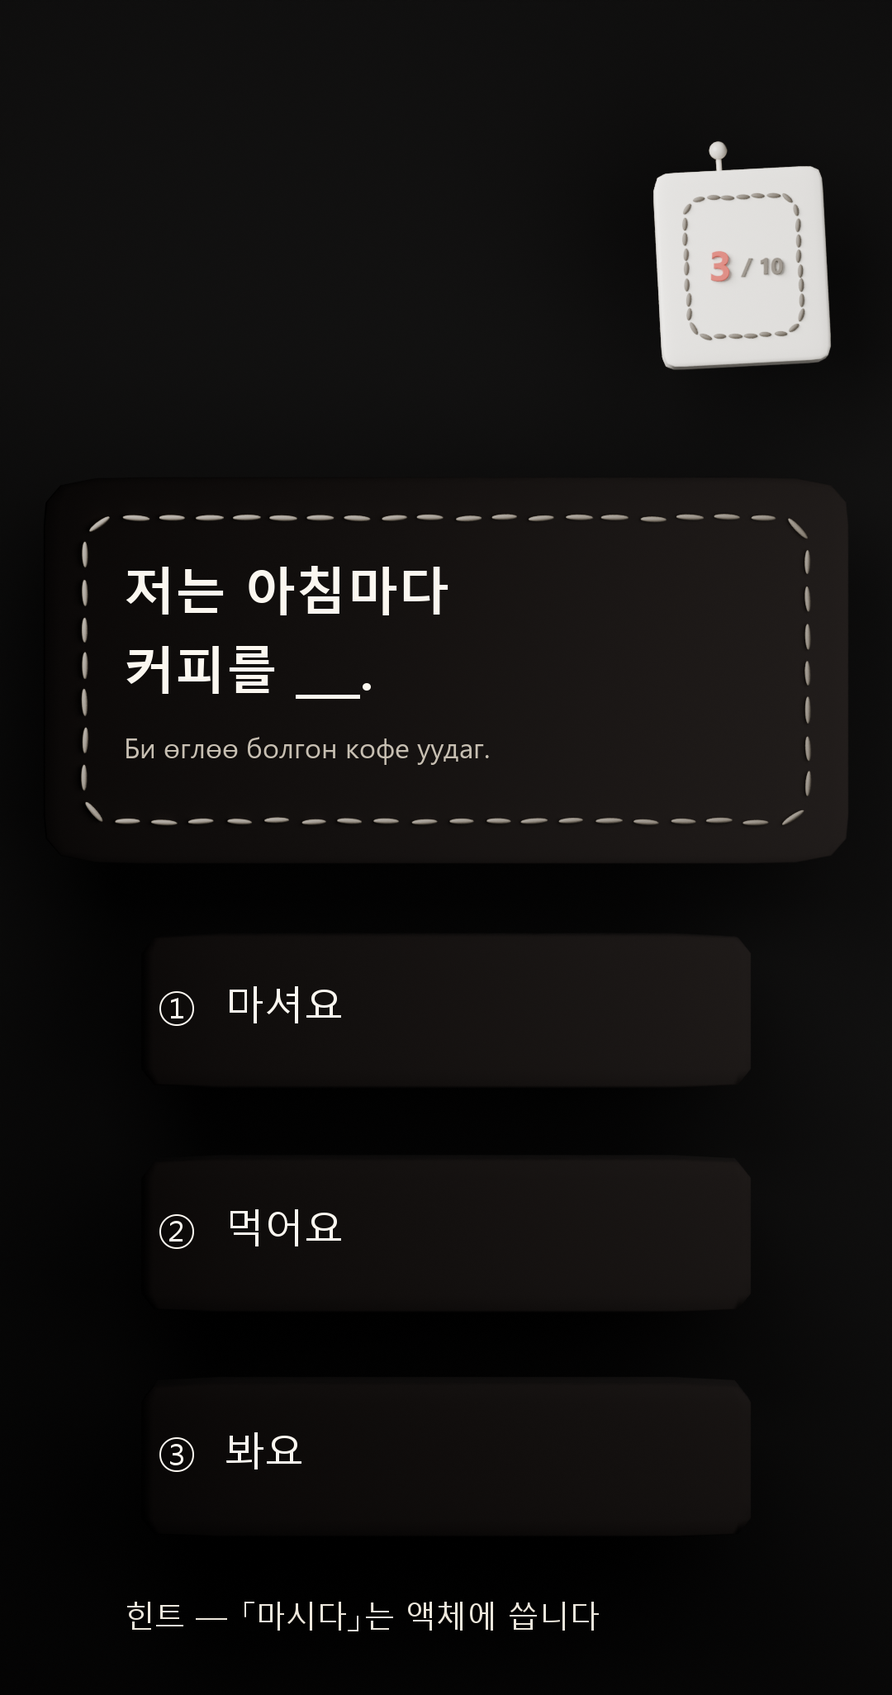
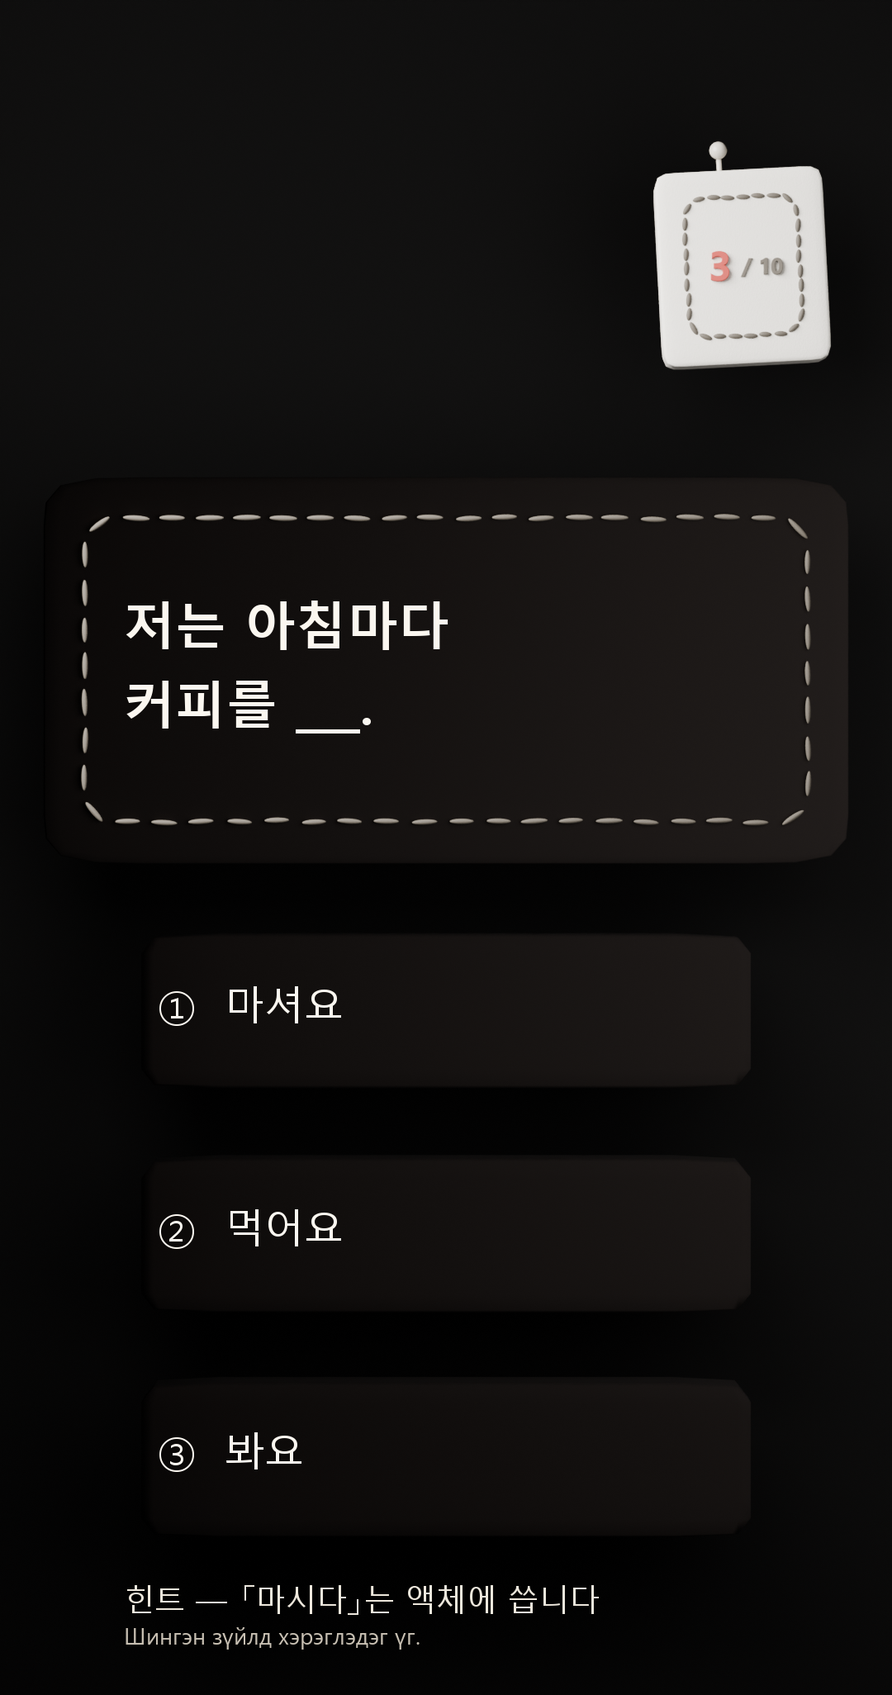
fix: 퀴즈 화면 보조줄이 «정답을 알려주고» 있었다 + 판 갈래 잰 뒤 미채택 확정 (유호 08-22 「권고대로」)
유호님 판정 대기 둘을 재료로 만들어 드리고 「권고대로」를 받았다. 둘 다 집행한다.

■ 퀴즈 보조줄 — 확정이 아니라 «수리»가 급했다

조합판_v1 의 키릴 줄은 「Би өглөө болгон кофе уудаг.」였다. уудаг = 마시다 —
문제가 「커피를 ___.」이고 보기가 ①마셔요 ②먹어요 ③봐요 인데 보조줄이 그 빈칸을 채워 줬다.
몽골 학생은 한국어를 한 글자도 모른 채 ①을 고른다. 이 문항은 아무것도 재지 못했다.

게다가 정확히 거꾸로였다 — 번역하면 안 되는 것(문제)은 번역했고, 못 읽으면 통째로
무용지물인 것(힌트)은 한국어만이었다.

이 수리는 ㉠없음·㉡층별·㉢전면 어느 규칙에서도 옳다. 그래서 규칙 확정을 앞지르지 않는다.

층별 규칙의 셋째 줄을 이 화면 집행에서 둘로 벼렸다:
  · 학습 대상의 «맥락»(문제 문장)   = 급수 연동(1~2급만) — 초급엔 맥락 없이 손도 못 댄다
  · 학습 대상 «자체»(보기·정답 후보) = 어느 급수에서도 안 함 — 번역하면 몽골어끼리 짝지어 고른다
  · 읽어야 «행동이 바뀌는» 문장(힌트) = 항상

문제의 키릴 거울은 빈칸을 빈칸으로 둔다(「…кофе ___.」). 몽골어도 동사가 끝에 오므로(SOV)
빈칸이 한국어와 같은 자리에 떨어진다 — 어순이 같아서 생기는 이득이고 다른 문형에도 쓴다.

규칙 «자체»는 확정하지 않았다(유호: 기본값으로만 박고 확정은 실학생 첫 달).
「UI 라벨은 반복으로 익는다」가 아직 가설이기 때문이다. 그래도 지금 박는 까닭은 타이밍이다 —
화면 2벌인 지금 되돌리는 값이 개원 때(15~20벌)의 1/7~1/10 이다.
본문 층 스위치 = 조합덧씌움3.py <바탕> [없음|층별|전면] [급수] · 기본 층별 3급.
다섯 판 비교 = 보조줄_다섯판.png. 네 갈래 전부 대비 AAA.

■ 판 갈래(㉮) — 잰 뒤 미채택 «확정»

08-21 인계의 「판 갈래엔 명품화 보정을 안 넣었다」는 과장이었다. 단추 수리(구멍 돌기·
X보정 0.004·단추등 38)는 전부 단추() 공통 함수 안이라 판 갈래도 자동으로 받는다.
안 한 것은 보정이 아니라 실측이었다. 정본으로 굽고 같은 본문을 부어 쟀다:

  여정 폭 673px(62%) vs 880px(81%) · 세로 217px vs 106px(판이 2.05배)
  밝은 화소 31,607 vs 23,928(판 +32%) · 코랄 403 vs 371(판 +8.6%)
  신호비 1.275% vs 1.551%(천 +22%) · 대비는 둘 다 전 블록 AAA

곧 판 갈래는 세로를 2배 쓰면서 여정을 23% 짧게 그리고, 소음을 32% 늘리면서 신호는
8.6%만 늘린다. 게이지의 존재 이유는 코랄 점 하나인데 판을 깔면 그 둘레가 함께 밝아져
점이 덜 튄다 — 명품 4계 ②가 정확히 이걸 막는 규칙이다.

지우지 않는다. 장점 둘(다른 화면 재사용·밝은 테마 내성)은 실재하되 지금 안 쓰일 뿐이고
「게이지=판」 한 마디로 언제든 다시 구워진다. 나란히 본 판 = 갈래_나란히.png.
[…]

diff --git a/docs/캐릭터/조합공방_0821/조합덧씌움3.py b/docs/캐릭터/조합공방_0821/조합덧씌움3.py
@@ -2,7 +2,16 @@
 """조합판에 산 글자를 붓는다 — 3차판. 2차(조합덧씌움2.py)와 다른 점은 **좌표의 출처** 하나다.
 2차는 본문 자리를 손좌표(150/596/692…)로 박아, 카드를 줄이면 글이 카드 위쪽에 쏠리거나 넘쳤다.
 3차는 굽기가 함께 낸 `<출력>.png.칸.json`(카드의 화면 픽셀 상자)을 읽어 **카드 안에 앉힌다** —
-판마다 다시 재지 않는다. 대비 실측은 2차 그대로(후광 고리 최악값)."""
+판마다 다시 재지 않는다. 대비 실측은 2차 그대로(후광 고리 최악값).
+
+08-22 보조줄 수리: 키릴 줄이 **정답을 누설**하고 있었다(「…кофе уудаг.」의 уудаг = 마시다).
+문제는 «커피를 ___» 인데 보조줄이 그 빈칸을 채워 줬으니 이 문항은 아무것도 재지 못했다.
+게다가 **정확히 거꾸로**였다 — 번역하면 안 되는 것(문제)은 번역하고, 못 읽으면 통째로 무용지물인
+것(힌트)은 한국어만이었다. 층별 규칙(성장공방_0821/인계.md §4)대로 다시 부었다.
+
+  쓰는 법:  python 조합덧씌움3.py <바탕이름> [없음|층별|전면] [급수]
+            기본 = 층별 · 3급 (성장판 목업과 같은 학생)
+"""
 import io, json, os, sys
 
 import PIL.ImageChops as C
@@ -11,28 +20,52 @@ from PIL import Image, ImageDraw, ImageFilter, ImageFont
 여기 = os.path.dirname(os.path.abspath(__file__))
 굵 = r"C:\Windows\Fonts\malgunbd.ttf"
 보통 = r"C:\Windows\Fonts\malgun.ttf"
-키릴 = r"C:\Windows\Fonts\segoeui.ttf"   # 맑은고딕엔 몽골 키릴 ө·ү 글리프가 없다(두부 실측)
+키릴서체 = r"C:\Windows\Fonts\segoeui.ttf"   # 맑은고딕엔 몽골 키릴 ө·ү 글리프가 없다(두부 실측)
 잉크 = (0xFB, 0xF7, 0xF0)      # Paper
 보조 = (0xED, 0xE7, 0xDC)      # Oat
 보조2 = (0xC7, 0xBF, 0xB2)     # Stone
 
 이름 = sys.argv[1]
+갈래 = sys.argv[2] if len(sys.argv) > 2 else "층별"     # 없음 | 층별 | 전면
+                                                      # ⚠이름을 「보조」로 두면 색 상수를 덮는다
+급수 = int(sys.argv[3]) if len(sys.argv) > 3 else 3
+
+# ── 층별 규칙(성장공방_0821/인계.md §4)의 이 화면 집행 ──────────────────────────────
+#   ㉠ 문제 문장 = 학습 대상의 «맥락» → 급수 연동(1~2급만 병기 · 3급부터 걷힌다 = 승급의 실물 보상)
+#   ㉡ 보기 ①②③ = 학습 대상 «자체» → 어느 급수에서도 병기하지 않는다.
+#      번역하면 학생이 몽골어끼리 짝지어 고르므로 문항이 «한국어를» 재지 못한다.
+#   ㉢ 힌트 = 읽어야 «행동이 바뀌는» 문장 → 항상 병기(못 읽으면 힌트가 통째로 무용지물).
+#   ⚠㉠의 키릴 거울은 **빈칸을 빈칸으로 둔다.** 몽골어도 동사가 끝에 오므로 자리가 그대로 맞는다.
+문제키릴 = (갈래 == "전면") or (갈래 == "층별" and 급수 <= 2)
+보기키릴 = (갈래 == "전면")
+힌트키릴 = 갈래 in ("층별", "전면")
+
+# ⚠몽골어 문안은 **검수 전 표본**이다 — 이 판으로 정하는 것은 「어디에 넣나」뿐.
+몽 = {
+    "문제": "Би өглөө болгон кофе ___.",          # 빈칸 보존 — уудаг 을 넣으면 정답 누설
+    "힌트": "Шингэн зүйлд хэрэглэдэг үг.",        # ⚠키릴 서체엔 한글이 없다 — 「마시다」를 넣으면 두부(□)
+    "보기": ("уудаг", "иддэг", "үздэг"),
+}
+
 바탕길 = os.path.join(여기, "렌더", 이름 + ".png")
 칸길 = 바탕길 + ".칸.json"
+꼬리 = "_%s%d급" % (갈래, 급수)
 
 im = Image.open(바탕길).convert("RGB")
 W, H = im.size
 d = ImageDraw.Draw(im)
 
 # ── 본문 자리 — 카드 칸에서 뽑는다 ──────────────────────────────────────────────
-#   왼 들여쓰기 98 · 줄새 96 · 키릴 내림 210 · 블록 높이 256 은 2차 채택판의 «비례»를 그대로 옮긴 값이다
+#   왼 들여쓰기 98 · 줄새 96 · 키릴 내림 210 은 2차 채택판의 «비례»를 그대로 옮긴 값이다
 #   (2차 실측: 카드 좌 52 → 글 150 · 카드 위 479 → 글 596 · 블록 596~852).
 #   ⚠광학 보정 −12: PIL 의 text top 은 폰트 상자 위끝이라 글자는 그보다 아래에서 시작한다.
 #     기하 중앙에 그대로 앉히면 «아래로 처져» 보인다.
+#   ⚠블록 높이는 «줄 수»를 따른다 — 키릴 줄이 빠졌는데 3줄 높이로 앉히면 글이 위로 뜬다.
 칸들 = json.load(io.open(칸길, encoding="utf-8"))
 칸 = 칸들["카드"]
 좌 = int(round(칸["좌"] + 98))
-줄1 = int(round((칸["위"] + 칸["아래"]) / 2 - 128 - 12))
+블록 = 256 if 문제키릴 else 172
+줄1 = int(round((칸["위"] + 칸["아래"]) / 2 - 블록 / 2 - 12))
 줄2, 몽골 = 줄1 + 96, 줄1 + 210
 
 
@@ -43,23 +76,44 @@ def 글(x, y, 본문, 크기, 색, bold=True, 서체=None):
 
 
 기록 = []
+색표 = {}
+
+
+def 적는다(표이름, 색, x, y, 본문, 크기, bold=True, 서체=None):
+    """글을 붓고 «대비 실측이 다시 찾을 수 있게» 이름·색과 함께 장부에 적는다."""
+    기록.append((표이름, 글(x, y, 본문, 크기, 색, bold, 서체)))
+    색표[표이름] = 색
+
+
 # ── 카드 위: 문제 (keep-all 은 짧은 줄로 손수 보장 · 위계는 밀도) ──
-기록.append(("문제줄1", 글(좌, 줄1, "저는 아침마다", 62, 잉크, True)))
-기록.append(("문제줄2", 글(좌, 줄2, "커피를 ___.", 62, 잉크, True)))
-기록.append(("몽골줄", 글(좌, 몽골, "Би өглөө болгон кофе уудаг.", 34, 보조2, False, 서체=키릴)))
+적는다("문제줄1", 잉크, 좌, 줄1, "저는 아침마다", 62, True)
+적는다("문제줄2", 잉크, 좌, 줄2, "커피를 ___.", 62, True)
+if 문제키릴:
+    적는다("문제몽", 보조2, 좌, 몽골, 몽["문제"], 34, False, 키릴서체)
 
 # ── 알약 위: 보기 — 알약도 자기 칸을 말한다(3차). 2차 손좌표(1244/1496/1748)는 알약을 옮기자
 #    글이 알약 아래로 흘러내렸다. 알약 세로 중앙 − 30(48px 글의 반) − 12(광학 보정)에 앉힌다.
 for 번, 본문 in enumerate(("①  마셔요", "②  먹어요", "③  봐요")):
     알 = 칸들["알약%d" % (번 + 1)]
-    py = int(round((알["위"] + 알["아래"]) / 2 - 30 - 12))
-    기록.append((본문[:1], 글(190, py, 본문, 48, 잉크, False)))
-기록.append(("힌트", 글(150, 1930, "힌트 — 「마시다」는 액체에 씁니다", 37, 보조, False)))
+    중 = (알["위"] + 알["아래"]) / 2
+    if 보기키릴:
+        py = int(round(중 - 42 - 12))
+        적는다(본문[:1], 잉크, 190, py, 본문, 48, False)
+        적는다(본문[:1] + "몽", 보조2, 190 + 62, py + 60, 몽["보기"][번], 26, False, 키릴서체)
+    else:
+        적는다(본문[:1], 잉크, 190, int(round(중 - 30 - 12)), 본문, 48, False)
 
-낸것 = os.path.join(여기, "렌더", 이름 + "_본문.png")
+# ── 화면 바닥: 힌트 — 두 줄이면 한 줄이던 자리의 «세로 중심»을 지킨다 ──
+힌트y = 1910 if 힌트키릴 else 1930
+적는다("힌트", 보조, 150, 힌트y, "힌트 — 「마시다」는 액체에 씁니다", 37, False)
+if 힌트키릴:
+    적는다("힌트몽", 보조2, 150, 힌트y + 50, 몽["힌트"], 28, False, 키릴서체)
+
+낸것 = os.path.join(여기, "렌더", 이름 + "_본문" + 꼬리 + ".png")
 im.save(낸것)
-print("구움:", os.path.basename(낸것), "· 카드칸 좌%d 위%d 아래%d · 글 좌%d 줄1 %d"
-      % (칸["좌"], 칸["위"], 칸["아래"], 좌, 줄1))
+print("구움:", os.path.basename(낸것),
+      "· 갈래 %s · %d급 · 문제키릴 %s · 보기키릴 %s · 힌트키릴 %s"
+      % (갈래, 급수, 문제키릴, 보기키릴, 힌트키릴))
 
 
 # ── 대비 실측 — 블록마다 후광 고리 최악값 ──
@@ -88,8 +142,7 @@ for 표이름, (x, y, 본문, 크기, bold, 서체) in 기록:
     dm.text((x, y), 본문, font=f, fill=255)
     고리 = C.subtract(m.filter(ImageFilter.MaxFilter(5)), m)
     gl = 고리.load()
-    글색 = {"문제줄1": 잉크, "문제줄2": 잉크, "몽골줄": 보조2, "힌트": 보조}.get(표이름, 잉크)
-    L글 = 상대휘도(*글색)
+    L글 = 상대휘도(*색표[표이름])
     ls = []
     x0, y0 = max(0, x - 20), max(0, y - 20)
     x1, y1 = min(W, x + 1000), min(H, y + 크기 * 2 + 40)

diff --git a/docs/캐릭터/성장공방_0821/인계.md b/docs/캐릭터/성장공방_0821/인계.md
@@ -25,7 +25,7 @@
 
 | 자리 | 값 |
 |---|---|
-| 게이지 갈래 | **천**(배경천에 직접 수놓음) — 판 갈래(카드 안)는 미채택 |
+| 게이지 갈래 | **천**(배경천에 직접 수놓음) — 판 갈래는 §2-B 실측으로 미채택 확정(08-22) |
 | 여정 | 반폭 `1.178` · 6칸 · 도달 3 · z `1.845` |
 | 단추 | r `0.085` · depth 0.038 · 몸 Stone 거칠기 0.55 · 깊이 `0.975` |
 | 단추 구멍 | r×0.10 · depth `0.005` · 깊이 `−0.0205`(앞면에 «붙인» 자국) |
@@ -41,6 +41,31 @@
 제목은 게이지 위 150 · 여정 양끝 라벨은 **화면 마진**(제목과 같은 선) · 남은칸 안내는 한 층 아래.
 
 대비 실측: **12블록 전부 AAA**(10.04~18.25 : 1).
+
+## 2-B. 판 갈래(㉮) — 잰 뒤 미채택 확정 (2026-08-22)
+
+08-21 에는 「판 갈래엔 명품화 보정을 안 넣었다」고 적었는데 **과장이었다.** 단추 수리(구멍 돌기·
+X보정 0.004·단추등 38)는 전부 `단추()` 공통 함수 안이라 판 갈래도 자동으로 받는다.
+안 한 것은 보정이 아니라 **실측**이었다. 정본으로 굽고 같은 본문을 부어 쟀다:
+
+| 잣대 | ㉮ 판 | ㉯ 천 | |
+|---|---|---|---|
+| 여정 폭 | 673px (화면 62%) | **880px (81%)** | 천 +31% |
+| 칸 간격 | 135px | **176px** | 천 +30% |
+| 잡아먹는 세로 | **217px** | 106px | 판이 2.05배 |
+| 밝은 화소(L>120) | 31,607 | **23,928** | 판 +32% |
+| 코랄 화소(신호) | 403 | 371 | 판 +8.6% |
+| **신호비**(코랄/밝음) | 1.275% | **1.551%** | 천 +22% |
+| 대비 | 전 블록 AAA | 전 블록 AAA | 동률 |
+
+한 줄로: **판 갈래는 세로를 2배 쓰면서 여정을 23% 짧게 그리고, 소음을 32% 늘리면서 신호는
+8.6%만 늘린다.** 마지막이 결정적이다 — 게이지의 존재 이유는 코랄 점 하나인데, 판을 깔면
+그 둘레가 함께 밝아져 점이 덜 튄다(명품 4계 ②가 정확히 이걸 막는 규칙이다).
+
+**지우지 않는다.** 판 갈래의 장점 둘은 실재하되 지금 안 쓰일 뿐이다 —
+①판이 그릇이라 게이지를 다른 화면(「오늘」 탭)에 그대로 옮겨 붙일 수 있다(천 갈래는 못 뗀다)
+②밝은 테마로 가면 판이 대비를 지킨다. `게이지=판` 한 마디로 언제든 다시 구워진다.
+나란히 본 판 = `갈래_나란히.png`.
 
 ## 3. 함정 각주 — 재현으로 확인된 것들
 
@@ -66,7 +91,7 @@
    최소 보정으로 충분해졌다. 곧 **보정값을 키우기 전에 진짜 결함부터 찾아야 한다.**
    ⚠min/max 기반 측정은 1.5px 이동을 **못 잡는다**(정수 픽셀에 묻힌다) — 이 자리는 확대해 눈으로 잰다.
 
-## 4. 몽골어 보조줄 — 층별 규칙(판정 대기)
+## 4. 몽골어 보조줄 — 층별 규칙(기본값 채택 08-22 · 확정은 유보)
 
 「나의 성장」은 **㉯ 층별**로 부었다. 규칙은 셋:
 
@@ -74,7 +99,15 @@
 |---|---|---|
 | UI 라벨(나의 성장·도전 기록·오늘) | 안 함 | 4~6글자·자리 고정 — 반복으로 익는다. 번역해 주면 영영 안 외운다 |
 | 읽어야 **행동이 바뀌는** 문장(코치·안내) | 함 | 못 읽으면 그 기능이 통째로 무용지물 |
-| 학습 대상 자체(문제·보기) | **급수 연동 제안** | 초급엔 필요, 중급엔 해롭다 — 3급부터 걷히면 승급의 실물 보상이 된다 |
+| 학습 대상의 **맥락**(문제 문장) | **급수 연동** | 초급엔 맥락 없이 손도 못 댄다 — 3급부터 걷히면 승급의 실물 보상 |
+| 학습 대상 **자체**(보기·정답 후보) | **안 함** | 번역하면 몽골어끼리 짝지어 고른다 — 문항이 한국어를 못 잰다 |
+
+**유호 확정 08-22 「권고대로」**: 층별을 **기본값**으로 박되 규칙 자체의 확정은 **실학생 첫 달**로
+미룬다 — 「UI 라벨은 반복으로 익는다」가 아직 가설이기 때문이다. 그래도 지금 박는 까닭은 타이밍이다:
+화면 2벌인 지금 되돌리는 값이 개원 때(15~20벌)의 **1/7~1/10** 이다. 본문 층에 스위치가 이미 있고
+(`없음|층별|전면` + 급수) 급수 연동은 어차피 런타임 조건이라 스위치는 어느 규칙에서도 필수다.
+개원 뒤 한 달에 잴 것 = **초급 학생이 UI 라벨 때문에 막히는가.**
+셋째·넷째 줄이 갈라진 것은 퀴즈 화면 집행에서다 — 조합공방_0821/인계.md §2-B.
 
 화면당 검수 문안: 없음 0 · **층별 1** · 전면 8. 앱 화면 15~20 벌이면 층별 15~20건 vs 전면 120~160건.
 지금 미니게임 G1~G4 가 「몽골어 검수확정 전」이라 멈춰 있는 것을 보면 이 차이가 개원 일정에 그대로 얹힌다.
@@ -85,8 +118,8 @@
 - **본문 층이 해상도에 묶여 있다** — `성장덧씌움.py` 의 좌표(안여백 124 · 행간 84 …)는 1080px 기준
   절대값이다. 700px 시험 렌더에 부으면 글이 카드 밖으로 나간다(실측: 코치3 대비 15.28 → 5.97).
   Expo 실장 때는 상대 좌표로 바꾼다.
-- **판 갈래(㉮)에는 명품화 보정을 안 넣었다** — 천 갈래가 채택돼 그쪽만 다듬었다.
-- **조합판(퀴즈)의 키릴 보조줄은 아직 「문제 문장 통째 번역」이다** — 여기서 정한 층별 규칙을
-  그쪽에도 적용해야 한다.
+- ~~판 갈래에 명품화 보정 미적용~~ → §2-B 에서 잰 뒤 **미채택 확정**(08-22).
+- ~~조합판의 키릴 보조줄이 「문제 문장 통째 번역」~~ → **수리 완료**(08-22).
+  그 줄은 **정답을 누설하고 있었다**(`уудаг` = 마시다) — 조합공방_0821/인계.md §2-B.
 - 숫자·문구는 표본이다(12 / 7 / 3급 / 「-고 있다」) — 실데이터 배선 전.
 - PIL 합성 목업이지 Expo 실장이 아니다 · AMOLED 실기 미확인.

diff --git a/docs/캐릭터/조합공방_0821/인계.md b/docs/캐릭터/조합공방_0821/인계.md
@@ -51,6 +51,32 @@
 읽어 글을 앉힌다. **손좌표를 쓰지 않는다**: 2차의 150/596/692 는 카드를 줄이자 글이 카드 밖으로 샜고,
 알약을 올리자 보기 글자가 알약 아래로 흘러내렸다.
 
+    python 조합덧씌움3.py <바탕이름> [없음|층별|전면] [급수]     # 기본 = 층별 · 3급
+
+## 2-B. 보조줄 수리 (2026-08-22) — 키릴 줄이 정답을 누설하고 있었다
+
+`조합판_v1.png` 의 키릴 줄은 「Би өглөө болгон кофе **уудаг**.」였다. `уудаг` = **마시다** —
+문제가 「커피를 ___.」이고 보기가 ①마셔요 ②먹어요 ③봐요 인데 보조줄이 그 빈칸을 채워 줬다.
+몽골 학생은 한국어를 한 글자도 모른 채 ①을 고른다. **이 문항은 아무것도 재지 못했다.**
+
+게다가 **정확히 거꾸로**였다 — 번역하면 안 되는 것(문제)은 번역했고, 못 읽으면 통째로
+무용지물인 것(힌트 「「마시다」는 액체에 씁니다」)은 한국어만이었다.
+
+층별 규칙(성장공방_0821/인계.md §4)의 이 화면 집행:
+
+| 층 | 병기 | 왜 |
+|---|---|---|
+| 문제 문장 = 학습 대상의 **맥락** | **급수 연동**(1~2급만) | 초급엔 맥락이 없으면 손도 못 댄다. 3급부터 걷히는 것이 승급의 실물 보상 |
+| 보기 ①②③ = 학습 대상 **자체** | **어느 급수에서도 안 함** | 번역하면 학생이 몽골어끼리 짝지어 고른다 — 문항이 한국어를 못 잰다 |
+| 힌트 = 읽어야 **행동이 바뀌는** 문장 | **항상** | 못 읽으면 힌트가 통째로 무용지물 |
+
+🔑 **문제의 키릴 거울은 빈칸을 빈칸으로 둔다** — 「Би өглөө болгон кофе ___.」.
+몽골어도 동사가 문장 끝에 오므로(SOV) **빈칸이 한국어와 같은 자리에 떨어진다**. 우연이 아니라
+두 언어의 어순이 같아서 생기는 이득이고, 다른 문형에도 그대로 쓸 수 있다.
+
+다섯 판 비교 = `보조줄_다섯판.png`(수리 전 · 없음 · 층별 1~2급 · 층별 3급+ · 전면).
+네 갈래 전부 **대비 AAA**. ⚠몽골어 문안은 **검수 전 표본**이다 — 이 판으로 정한 것은 「어디에 넣나」뿐.
+
 ## 3. 함정 각주 — 재현으로 확인된 것들
 
 1. **`evaluated_get(dg)` 는 서브서프 «전» 값을 준다** — bound_box·data.vertices·to_mesh 전부(2회 재현).
@@ -64,7 +90,12 @@
    라벨(0.05)은 0.05로도 앉는다. 시접은 판 크기가 아니라 **두께**를 따른다.
 5. **시침핀은 깊이가 정한다** — 바늘이 라벨 «앞»에 있으면 막대사탕이 된다. 라벨 뒷면 너머(y 0.47)로
    보내고 화면 평면에 눕혀야(x회전 68° → 20°) 아래끝이 천에 숨고 «꽂힌 길이»가 보인다.
-6. **큐브+서브서프+크리스로는 «라운드 렉트»가 안 나온다** — 손잡이가 하나라 올리면 모서리가 좁은
+6. **정본은 굳어 있지 않다 — 남이 고친 전역 설정이 이 화면에도 내린다.** 08-22 재현 굽기가
+   채택본과 **1.60% 어긋났다**(이식 때는 0.006%). 범인은 형제 세션의 디노이즈 가이드(e6b6c1b0 ·
+   `RGB_ALBEDO_NORMAL` + `ACCURATE`). 회귀가 아니라 **개선**이었다 — 차이의 **98.3%가 라벨 태그
+   한 자리**에 몰렸고(카드·알약·배경은 화소 단위로 동일) 그 자리 기울기가 **+3.5%** 선명해졌다.
+   ⚠「안 맞는다」를 보면 먼저 **어디가** 안 맞는지 격자로 세고, 그다음 **더 나빠졌는지**를 잰다.
+7. **큐브+서브서프+크리스로는 «라운드 렉트»가 안 나온다** — 손잡이가 하나라 올리면 모서리가 좁은
    반경으로 급히 꺾이고(뭉툭) 내리면 네 변까지 볼록해진다. 둘레를 걸어 판을 세우면 분리되지만,
    그 판은 앞면이 평면이라 «천»이 아니라 판때기로 읽힌다 — **5차에서 시도했고 유호 기각**(08-21).
 
@@ -83,4 +114,7 @@
 - **실 자체를 어둡게 하지 않았다.** 거칠기(0.78 → 0.90)로는 밝기가 안 내려간다(144.2 → 142.6, 실측).
   더 낮추려면 Deep Wool 보다 어두운 색이 필요한데 그건 킷 밖이다.
 - 상태(포커스·정답·오답)는 안 그렸다 — HTML 층 몫.
+- **층별 규칙 자체는 아직 확정이 아니다**(유호 08-22: 기본값으로만 박고 확정은 실학생 첫 달로).
+  「UI 라벨은 반복으로 익는다」가 가설이라 그렇다. 개원 뒤 잴 것 = 초급 학생이 UI 라벨에 막히는가.
+- **본문 층이 해상도에 묶여 있다** — 힌트 y(1910/1930)는 1080px 기준 절대값이다. Expo 실장 때 상대 좌표로.
 - PIL 합성 목업이지 Expo 실장이 아니다 · AMOLED 실기 미확인 · 몽골어 문안은 검수 전 표본.
